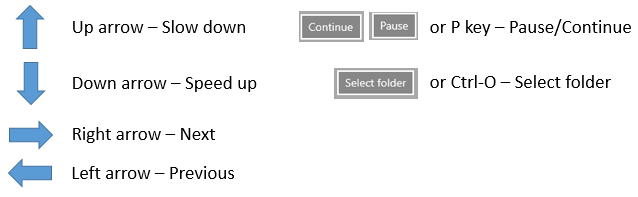
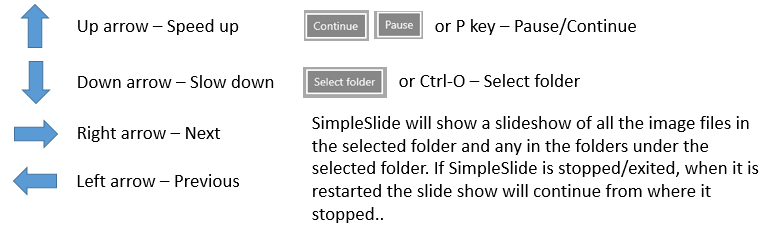
Bit more on oXBox help screen. Speed control was coded backwaards, corrected that.

Changed region(s): [[0.0, 0.0305, 1.0, 0.9746], [0.3871, 0.6091, 0.9828, 0.7614], [0.3871, 0.7919, 0.9232, 0.8528]]

diff --git a/SimpleSlide/Help.xaml b/SimpleSlide/Help.xaml
@@ -10,6 +10,10 @@
     PrimaryButtonText="OK"
     PrimaryButtonClick="ContentDialog_PrimaryButtonClick"
  >
+    <ContentDialog.Resources>
+        <x:Double x:Key="ContentDialogMaxWidth">800</x:Double>
+        <x:Double x:Key="ContentDialogMaxHeight">600</x:Double>
+    </ContentDialog.Resources>
     <Grid>
         <Image Source="Assets/Help.png"/>
     </Grid>

diff --git a/SimpleSlide/MainPage.xaml.cs b/SimpleSlide/MainPage.xaml.cs
@@ -407,7 +407,7 @@ namespace SimpleSlide
             PlaySpeedBarTimer = ThreadPoolTimer.CreateTimer(PlaySpeedBarTimerHandler,
                                         TimeSpan.FromMilliseconds(1000D));
 
-            if (ChangeSpeed.Slower == change)
+            if (ChangeSpeed.Faster == change)
                 CurrSpeedIndex = Math.Max(0, CurrSpeedIndex - 1);
             else
                 CurrSpeedIndex = Math.Min(MaxSpeed, CurrSpeedIndex + 1);